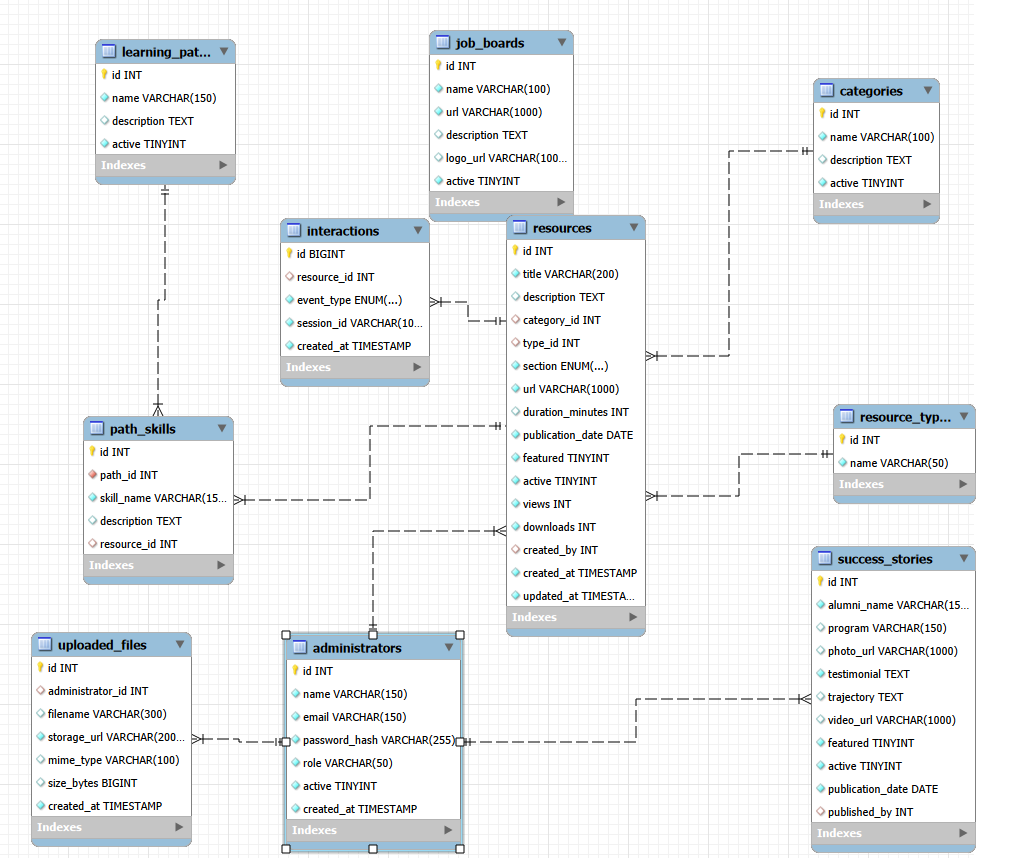
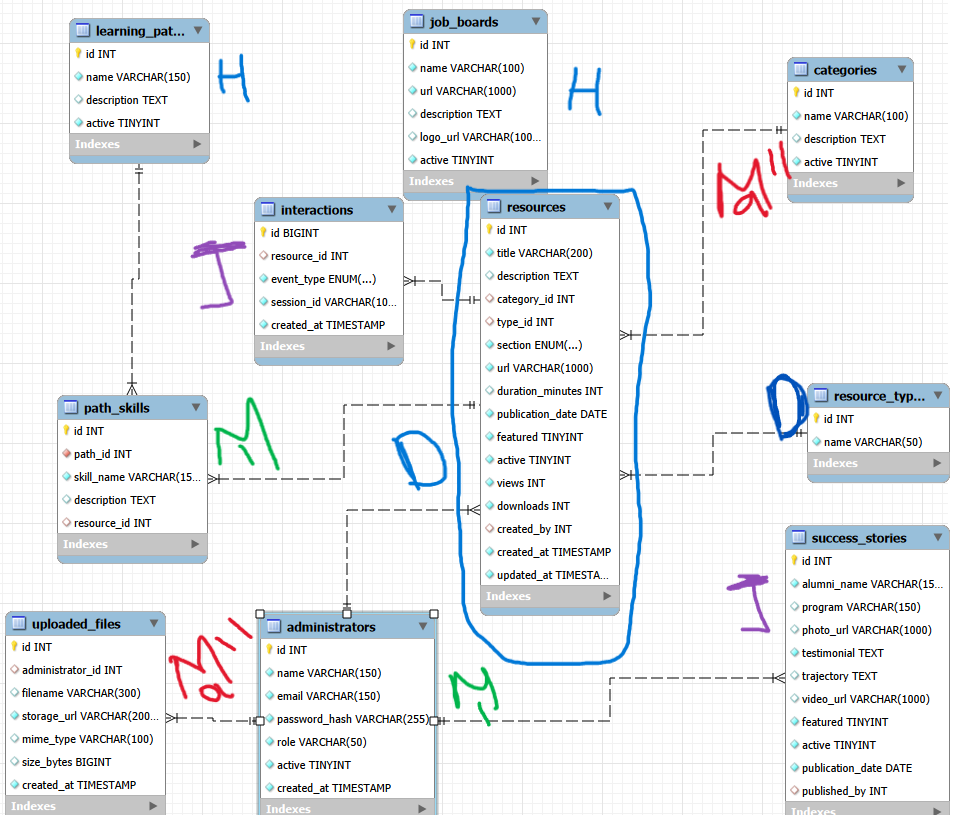
Cambios

diff --git a/src/main/java/com/alumni/model/Administrator.java b/src/main/java/com/alumni/model/Administrator.java
@@ -1,0 +1,115 @@
+package com.alumni.model;
+
+import jakarta.persistence.*;
+
+import java.time.LocalDateTime;
+import java.util.ArrayList;
+import java.util.List;
+
+@Entity
+@Table(name = "administrators")
+public class Administrator {
+
+    @Id
+    @GeneratedValue(strategy = GenerationType.IDENTITY)
+    private int id;
+
+    @Column(nullable = false)
+    private String name;
+
+    @Column(nullable = false)
+    private String email;
+
+    @Column(nullable = false)
+    private String passwordHash;
+
+    @Column(nullable = false)
+    private String role;
+
+    @Column(nullable = false)
+    private int active;
+
+    @Column(nullable = false)
+    private LocalDateTime createdAt;
+
+    @OneToMany(mappedBy = "administrator", cascade = CascadeType.ALL, fetch = FetchType.LAZY)
+
+    private List<Resource> recursos = new ArrayList<>();
+
+    public Administrator () {
+    }
+
+    public Administrator (String nombre, String correo, String contrasenaHash, String roll, int activo, LocalDateTime creacionAdmin) {
+        this.name = nombre;
+        this.email = correo;
+        this.passwordHash = contrasenaHash;
+        this.role = roll;
+        this.active = activo;
+        this.createdAt = creacionAdmin;
+    }
+
+    public int getId() {
+        return id;
+    }
+
+    public void setId(int id) {
+        this.id = id;
+    }
+
+    public String getName() {
+        return name;
+    }
+
+    public void setName(String name) {
+        this.name = name;
+    }
+
+    public String getEmail() {
+        return email;
+    }
+
+    public void setEmail(String email) {
+        this.email = email;
+    }
+
+    public String getPasswordHash() {
+        return passwordHash;
+    }
+
+    public void setPasswordHash(String passwordHash) {
+        this.passwordHash = passwordHash;
+    }
+
+    public String getRole() {
+        return role;
+    }
+
+    public void setRole(String role) {
+        this.role = role;
+    }
+
+    public int getActive() {
+        return active;
+    }
+
+    public void setActive(int active) {
+        this.active = active;
+    }
+
+    public LocalDateTime getCreatedAt() {
+        return createdAt;
+    }
+
+    public void setCreatedAt(LocalDateTime createdAt) {
+        this.createdAt = createdAt;
+    }
+
+    public List<Resource> getRecursos() {
+        return recursos;
+    }
+
+    public void setRecursos(List<Resource> recursos) {
+        this.recursos = recursos;
+    }
+}
+

diff --git a/src/main/java/com/alumni/dto/AdministratorDTO.java b/src/main/java/com/alumni/dto/AdministratorDTO.java
@@ -1,0 +1,101 @@
+package com.alumni.dto;
+
+import com.alumni.model.Administrator;
+
+import java.time.LocalDateTime;
+
+public class AdministratorDTO {
+    private int id;
+    private String name;
+    private String email;
+    private String passwordHash;
+    private String role;
+    private int active;
+    private LocalDateTime createdAt;
+
+    public AdministratorDTO () {
+
+    }
+
+    public AdministratorDTO (int idAdmin, String nombre, String correo, String contrasenaHash, String roll, int activo, LocalDateTime creacionAdmin) {
+        this.id = idAdmin;
+        this.name = nombre;
+        this.email = correo;
+        this.passwordHash = contrasenaHash;
+        this.role = roll;
+        this.active = activo;
+        this.createdAt = creacionAdmin;
+    }
+
+    public int getId() {
+        return id;
+    }
+
+    public void setId(int id) {
+        this.id = id;
+    }
+
+    public String getName() {
+        return name;
+    }
+
+    public void setName(String name) {
+        this.name = name;
+    }
+
+    public String getEmail() {
+        return email;
+    }
+
+    public void setEmail(String email) {
+        this.email = email;
+    }
+
+    public String getPasswordHash() {
+        return passwordHash;
+    }
+
+    public void setPasswordHash(String passwordHash) {
+        this.passwordHash = passwordHash;
+    }
+
+    public String getRole() {
+        return role;
+    }
+
+    public void setRole(String role) {
+        this.role = role;
+    }
+
+    public int getActive() {
+        return active;
+    }
+
+    public void setActive(int active) {
+        this.active = active;
+    }
+
+    public LocalDateTime getCreatedAt() {
+        return createdAt;
+    }
+
+    public void setCreatedAt(LocalDateTime createdAt) {
+        this.createdAt = createdAt;
+    }
+    public static AdministratorDTO fromEntity(Administrator administrator) {
+        return new AdministratorDTO(
+                administrator.getId(),
+                administrator.getName(),
+                administrator.getEmail(),
+                administrator.getPasswordHash(),
+                administrator.getRole(),
+                administrator.getActive(),
+                administrator.getCreatedAt()
+        );
+    }
+
+    public Administrator toEntity() {
+        return new Administrator(this.name, this.email, this.passwordHash,
+                this.role, this.active, this.createdAt);
+    }
+}

diff --git a/src/main/java/com/alumni/model/LearningPath.java b/src/main/java/com/alumni/model/LearningPath.java
@@ -1,4 +1,4 @@
 package com.alumni.model;
 
-public class LearningPaths {
+public class LearningPath {
 }

diff --git a/src/main/java/com/alumni/model/ResourceType.java b/src/main/java/com/alumni/model/ResourceType.java
@@ -1,4 +1,4 @@
 package com.alumni.model;
 
-public class ResourceTypes {
+public class ResourceType {
 }

diff --git a/src/main/java/com/alumni/model/PathSkill.java b/src/main/java/com/alumni/model/PathSkill.java
@@ -1,4 +1,4 @@
 package com.alumni.model;
 
-public class PathSkills {
+public class PathSkill {
 }

diff --git a/src/main/java/com/alumni/model/Resource.java b/src/main/java/com/alumni/model/Resource.java
@@ -1,4 +1,4 @@
 package com.alumni.model;
 
-public class Resources {
+public class Resource {
 }

diff --git a/src/main/java/com/alumni/controller/ResourceController.java b/src/main/java/com/alumni/controller/ResourceController.java
@@ -1,0 +1,4 @@
+package com.alumni.controller;
+
+public class ResourceController {
+}

diff --git a/src/main/java/com/alumni/repository/ResourceRepository.java b/src/main/java/com/alumni/repository/ResourceRepository.java
@@ -1,0 +1,4 @@
+package com.alumni.repository;
+
+public class ResourceRepository {
+}

diff --git a/src/main/java/com/alumni/dto/PathSkillDTO.java b/src/main/java/com/alumni/dto/PathSkillDTO.java
@@ -1,0 +1,4 @@
+package com.alumni.dto;
+
+public class PathSkillDTO {
+}

diff --git a/src/main/java/com/alumni/dto/ResourceDTO.java b/src/main/java/com/alumni/dto/ResourceDTO.java
@@ -1,0 +1,4 @@
+package com.alumni.dto;
+
+public class ResourceDTO {
+}
